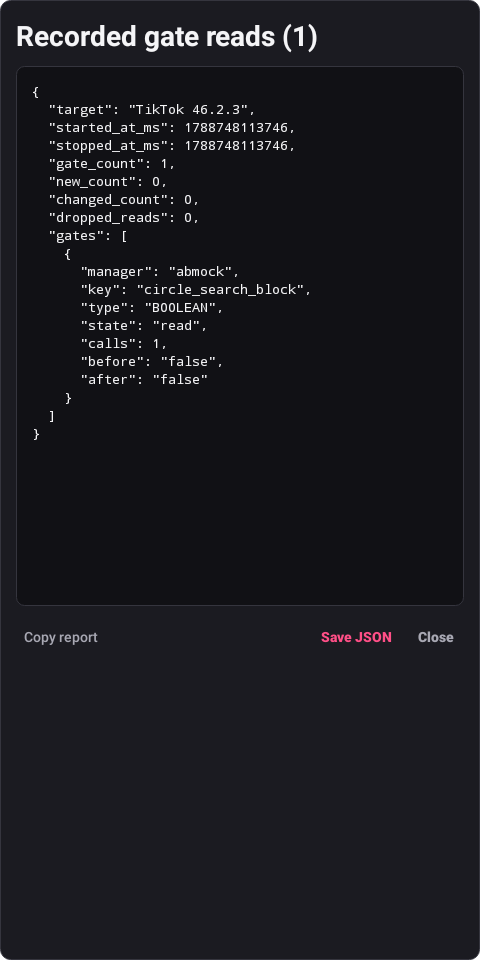
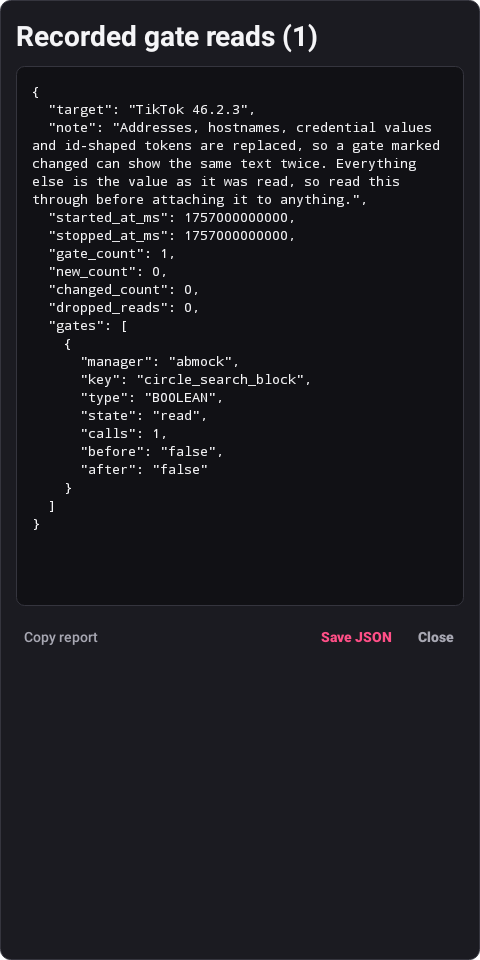
fix(lab): freeze the recorder's clock for its screenshot, so all 28 are held
The gate recorder's dialog draws the report JSON, and started_at_ms and
stopped_at_ms are its fourth and fifth fields, straight off the wall clock. Two
captures of an unchanged tree therefore differed, refreshScreenshots reported
that picture moved on every run, and it had to be excluded by name.

FeatureGateLearnMode takes a clock the way SessionBudget already does, the
capture case freezes it, and gate_recording.png is back in the map. Two runs in
a row: the first says it moved, the second says nothing moved. That is every
published screenshot held to the byte, with no exceptions left.

A real recording still stamps the times it was made at; only the two cases that
draw the picture replace the clock, and they put it back in a finally block.
753 tests pass across 104 suites, both lints pass.

diff --git a/extensions/tiktok/src/main/java/app/morphe/extension/tiktok/featuregatelab/FeatureGateLearnMode.java b/extensions/tiktok/src/main/java/app/morphe/extension/tiktok/featuregatelab/FeatureGateLearnMode.java
@@ -18,6 +18,24 @@ public final class FeatureGateLearnMode {
     private static Map<String, String> baseline = new LinkedHashMap<>();
     private static volatile boolean recording;
     private static long startedAt;
+
+    /**
+     * So the screenshot of the report is the same twice.
+     *
+     * <p>The dialog renders the report JSON, and two of its fields are the times the recording
+     * started and stopped, so a capture of an unchanged tree differed on every run and the
+     * refreshScreenshots task could not hold that one picture. Same shape as
+     * {@link app.morphe.extension.tiktok.wellbeing.SessionBudget}'s clock.
+     */
+    private static Clock clock = System::currentTimeMillis;
+
+    interface Clock {
+        long now();
+    }
+
+    static synchronized void setClockForTests(Clock replacement) {
+        clock = replacement == null ? System::currentTimeMillis : replacement;
+    }
     private static int dropped;
     private static String lastReport = "";
     private static int lastCount;
@@ -93,7 +111,7 @@ public final class FeatureGateLearnMode {
         baseline = new LinkedHashMap<>(latest);
         reads.clear();
         dropped = 0;
-        startedAt = System.currentTimeMillis();
+        startedAt = clock.now();
         recording = true;
         sessionState = true;
     }
@@ -143,7 +161,7 @@ public final class FeatureGateLearnMode {
                             + "tokens are replaced, so a gate marked changed can show the same "
                             + "text twice. Everything else is the value as it was read, so read "
                             + "this through before attaching it to anything.")
-                    .put("started_at_ms", startedAt).put("stopped_at_ms", System.currentTimeMillis())
+                    .put("started_at_ms", startedAt).put("stopped_at_ms", clock.now())
                     .put("gate_count", gates.length()).put("new_count", added).put("changed_count", changed)
                     .put("dropped_reads", dropped).put("gates", gates).toString(2);
         } catch (JSONException error) {

diff --git a/extensions/tiktok/src/test/java/app/morphe/extension/tiktok/featuregatelab/FeatureGateRecorderTest.java b/extensions/tiktok/src/test/java/app/morphe/extension/tiktok/featuregatelab/FeatureGateRecorderTest.java
@@ -101,6 +101,10 @@ public class FeatureGateRecorderTest {
     public void reportRemainsReadableInLightTheme() throws Exception { captureReport(false); }
 
     private void captureReport(boolean dark) throws Exception {
+        // The report carries the times the recording started and stopped, and those are drawn
+        // into the picture. Left on the wall clock, no two captures of an unchanged tree match
+        // and refreshScreenshots cannot hold this one.
+        FeatureGateLearnMode.setClockForTests(() -> 1_757_000_000_000L);
         try (var owner = Robolectric.buildActivity(
                 app.morphe.extension.tiktok.settings.SettingsPagesTest.PageActivity.class).setup().visible()) {
             var activity = owner.get();
@@ -120,6 +124,8 @@ public class FeatureGateRecorderTest {
             app.morphe.extension.tiktok.UiCapture.save(dialog.getWindow().getDecorView(),
                     dark ? "gate-recording.png" : "gate-recording-light.png");
             dialog.dismiss();
+        } finally {
+            FeatureGateLearnMode.setClockForTests(null);
         }
     }
 }
